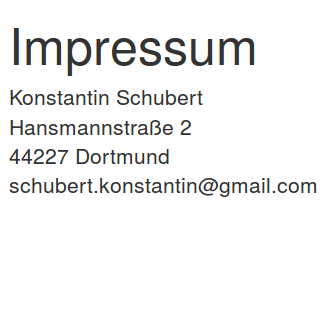
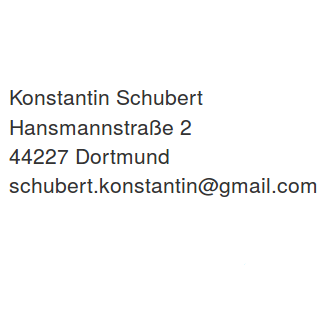
fixed some display issues

Changed region(s): [[0.0303, 0.0606, 0.7879, 0.2424]]

diff --git a/css/one-page-wonder.css b/css/one-page-wonder.css
@@ -83,6 +83,11 @@ article {
   margin-bottom: 1em;
 }
 
+.impressum-image{
+    max-width: 100%;
+    height: auto;
+}
+
 @media(max-width:1200px) {
     .headline h1 {
         font-size: 140px;

diff --git a/impressum/index.md b/impressum/index.md
@@ -3,6 +3,5 @@ layout: page
 title:  "Impressum"
 ---
 
-<div class="post-image-wrapper">
-  <img class="post-image image-responsive" src="{{ site.baseurl }}/assets/img/impressum.png>
-</div>
+
+<img class="impressum-image image-responsive" src="{{ site.baseurl }}/assets/img/impressum.png">
